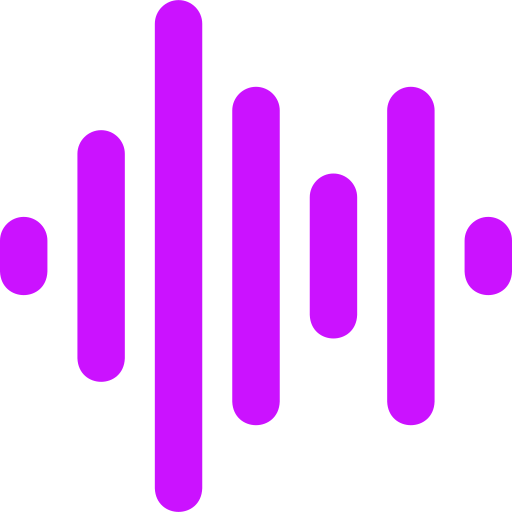
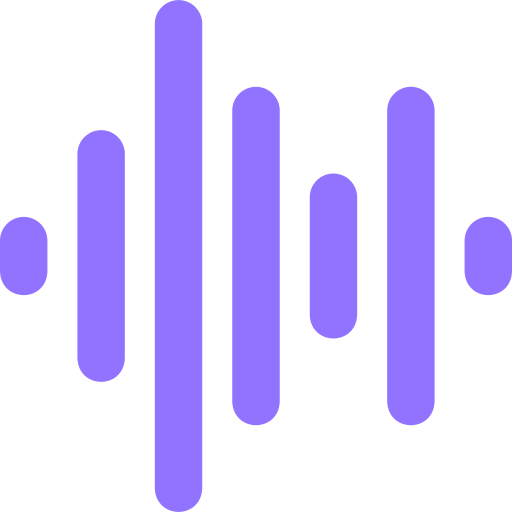
Added greatest album section with slide using splide.js library

diff --git a/index.html b/index.html
@@ -14,8 +14,13 @@
       src="https://kit.fontawesome.com/e2c9faac31.js"
       crossorigin="anonymous"
     ></script>
+    <link
+      rel="stylesheet"
+      href="https://cdn.jsdelivr.net/npm/@splidejs/splide@4.1.4/dist/css/splide.min.css"
+    />
     <link rel="stylesheet" href="styles/main-style.css" />
     <link rel="stylesheet" href="styles/dashboard-style.css" />
+    <link rel="stylesheet" href="styles/splide-style.css" />
   </head>
   <body>
     <header>
@@ -106,10 +111,114 @@
             </div>
           </div>
         </div>
+        <div class="music-container">
+          <div class="grates-album-title-container">
+            <div class="title">GREATEST ALBUMS OF ALL TIME</div>
+            <div class="view-all">View all</div>
+          </div>
+          <div class="greatest-album-list-container splide">
+            <div class="splide__track">
+              <div class="splide__list">
+                <div class="splide__slide greatest-album-container">
+                  <div class="image-container">
+                    <img src="assets/img/album_1.jpg" alt="album cover" />
+                  </div>
+                  <div class="album-name">Something Wrong</div>
+                  <div class="artist-name">Ed Shreen</div>
+                </div>
+                <div class="splide__slide greatest-album-container">
+                  <div class="image-container">
+                    <img
+                      src="https://img.freepik.com/premium-psd/plastic-wrap-overlay-album-art-cover-psd-template-06_984100-750.jpg?ga=GA1.1.1455229072.1734877589&semt=ais_hybrid&w=740&q=80"
+                      alt="album cover"
+                    />
+                  </div>
+                  <div class="album-name">Something Wrong</div>
+                  <div class="artist-name">Ed Shreen</div>
+                </div>
+                <div class="splide__slide greatest-album-container">
+                  <div class="image-container">
+                    <img
+                      src="https://img.freepik.com/free-photo/person-surrounded-by-wavy-text_23-2150039714.jpg?ga=GA1.1.1455229072.1734877589&semt=ais_hybrid&w=740&q=80"
+                      alt="album cover"
+                    />
+                  </div>
+                  <div class="album-name">Something Wrong</div>
+                  <div class="artist-name">Ed Shreen</div>
+                </div>
+                <div class="splide__slide greatest-album-container">
+                  <div class="image-container">
+                    <img
+                      src="https://img.freepik.com/free-psd/flat-design-music-template_23-2149934583.jpg?ga=GA1.1.1455229072.1734877589&semt=ais_hybrid&w=740&q=80"
+                      alt="album cover"
+                    />
+                  </div>
+                  <div class="album-name">Something Wrong</div>
+                  <div class="artist-name">Ed Shreen</div>
+                </div>
+                <div class="splide__slide greatest-album-container">
+                  <div class="image-container">
+                    <img
+                      src="https://img.freepik.com/premium-psd/plastic-wrap-overlay-album-art-cover-psd-template-04_984100-743.jpg?ga=GA1.1.1455229072.1734877589&semt=ais_hybrid&w=740&q=80"
+                      alt="album cover"
+                    />
+                  </div>
+                  <div class="album-name">Something Wrong</div>
+                  <div class="artist-name">Ed Shreen</div>
+                </div>
+                <div class="splide__slide greatest-album-container">
+                  <div class="image-container">
+                    <img
+                      src="https://img.freepik.com/free-vector/abstract-minimalist-indie-general-cd-cover_23-2148916370.jpg?ga=GA1.1.1455229072.1734877589&semt=ais_hybrid&w=740&q=80"
+                      alt="album cover"
+                    />
+                  </div>
+                  <div class="album-name">Something Wrong</div>
+                  <div class="artist-name">Ed Shreen</div>
+                </div>
+                <div class="splide__slide greatest-album-container">
+                  <div class="image-container">
+                    <img
+                      src="https://img.freepik.com/free-psd/music-channel-cd-cover-template_23-2151366391.jpg?ga=GA1.1.1455229072.1734877589&semt=ais_hybrid&w=740&q=80"
+                      alt="album cover"
+                    />
+                  </div>
+                  <div class="album-name">Something Wrong</div>
+                  <div class="artist-name">Ed Shreen</div>
+                </div>
+                <div class="splide__slide greatest-album-container">
+                  <div class="image-container">
+                    <img
+                      src="https://img.freepik.com/premium-psd/club-dj-party-flyer-social-media-post-web-banner_99493-2484.jpg?ga=GA1.1.1455229072.1734877589&semt=ais_hybrid&w=740&q=80"
+                      alt="album cover"
+                    />
+                  </div>
+                  <div class="album-name">Something Wrong</div>
+                  <div class="artist-name">Ed Shreen</div>
+                </div>
+                <div class="splide__slide greatest-album-container">
+                  <div class="image-container">
+                    <img
+                      src="https://img.freepik.com/premium-psd/conceptual-musical-event-live-performance-dj-poster-social-media-post-instagram-free-download_822642-993.jpg?ga=GA1.1.1455229072.1734877589&semt=ais_hybrid&w=740&q=80"
+                      alt="album cover"
+                    />
+                  </div>
+                  <div class="album-name">Something Wrong</div>
+                  <div class="artist-name">Ed Shreen</div>
+                </div>
+              </div>
+              <div class="splide__progress">
+                <div class="splide__progress__bar"></div>
+              </div>
+            </div>
+          </div>
+        </div>
       </div>
       <div class="right-container"></div>
     </main>
 
+    <script src="https://cdn.jsdelivr.net/npm/@splidejs/splide@4.1.4/dist/js/splide.min.js"></script>
+    <script src="https://cdn.jsdelivr.net/npm/@splidejs/splide@4.1.4/dist/js/extensions/splide-extension-autoplay.min.js"></script>
     <script src="scripts/main-script.js"></script>
   </body>
 </html>

diff --git a/styles/dashboard-style.css b/styles/dashboard-style.css
@@ -24,7 +24,7 @@ header .right-container {
 header .right-container .upgrade-text {
   font-size: 14px;
   font-weight: 700;
-  color: rgb(193, 69, 255);
+  color: #9173ff;
 }
 header .right-container .noti-container {
   margin: 0 30px;
@@ -37,7 +37,7 @@ header .right-container .noti-container .badge {
   width: 8px;
   height: 8px;
   border-radius: 8px;
-  background-color: rgb(193, 69, 255);
+  background-color: #9173ff;
   position: absolute;
   top: -4px;
   right: 0px;
@@ -74,12 +74,13 @@ main > div {
   height: 100%;
   /* background-color: #0d0d0d; */
   border-radius: 10px;
+  display: flex;
+  flex-direction: column;
+  gap: 10px;
 }
 main .left-container {
   width: 15%;
   height: 100%;
-  display: flex;
-  flex-direction: column;
 }
 main .mid-container {
   width: 65%;
@@ -91,7 +92,6 @@ main .right-container {
 main .left-container .menu-container {
   padding: 20px 0;
   background-color: #0d0d0d;
-  margin-bottom: 10px;
   border-radius: 10px;
 }
 main .left-container .menu-container:last-child {
@@ -213,7 +213,7 @@ main .mid-container .special-track-list-container {
   .track-artist
   span {
   font-size: 14px;
-  opacity: 0.6;
+  opacity: 0.4;
 }
 .special-track-list-container
   .special-track-container
@@ -338,4 +338,75 @@ main .mid-container .special-track-list-container {
   .arrow-container
   i:hover {
   opacity: 1;
+}
+
+main .music-container {
+  width: 100%;
+  flex-grow: 1;
+  background-color: #0d0d0d;
+  padding: 25px;
+  border-radius: 10px;
+}
+main .music-container .grates-album-title-container {
+  width: 100%;
+  display: flex;
+  justify-content: space-between;
+  font-size: 13px;
+  margin-bottom: 20px;
+  user-select: none;
+}
+main .music-container .grates-album-title-container > div {
+  opacity: 0.5;
+}
+
+main .music-container .grates-album-title-container:hover .view-all {
+  opacity: 1;
+  cursor: pointer;
+}
+
+main .music-container .greatest-album-list-container {
+  width: 100%;
+  display: flex;
+  align-items: center;
+  justify-content: space-between;
+  gap: 30px;
+}
+main .music-container .greatest-album-list-container .greatest-album-container {
+  width: 130px;
+  flex-shrink: 0;
+}
+main
+  .music-container
+  .greatest-album-list-container
+  .greatest-album-container
+  .image-container {
+  width: 100%;
+  height: 150px;
+}
+main
+  .music-container
+  .greatest-album-list-container
+  .greatest-album-container
+  .image-container
+  img {
+  width: 100%;
+  height: 100%;
+  object-fit: cover;
+  border-radius: 10px;
+}
+main
+  .music-container
+  .greatest-album-list-container
+  .greatest-album-container
+  .album-name {
+  font-size: 13px;
+  margin: 5px 0;
+}
+main
+  .music-container
+  .greatest-album-list-container
+  .greatest-album-container
+  .artist-name {
+  font-size: 12px;
+  opacity: 0.5;
 }

diff --git a/styles/splide-style.css b/styles/splide-style.css
@@ -1,0 +1,27 @@
+.splide__track {
+  overflow: hidden;
+}
+
+.splide__track::-webkit-scrollbar {
+  display: none;
+}
+
+.splide__track {
+  -ms-overflow-style: none;
+  scrollbar-width: none;
+}
+
+.splide__list {
+  display: flex;
+}
+
+.splide__slide {
+  flex-shrink: 0;
+  width: auto;
+  margin-right: 15px;
+}
+.splide__progress__bar {
+  margin-top: 10px;
+  height: 1px;
+  background: #9173ff;
+}

diff --git a/scripts/main-script.js b/scripts/main-script.js
@@ -1,0 +1,16 @@
+var splide = new Splide(".splide", {
+  type: "loop",
+  perPage: 8,
+  gap: "30px",
+  drag: "free",
+  snap: false,
+  easing: "cubic-bezier(.22,.61,.36,1)",
+  arrows: false,
+  pagination: false,
+  autoplay: true,
+  interval: 5000,
+  speed: 1000,
+  pauseOnHover: true,
+});
+
+splide.mount();
